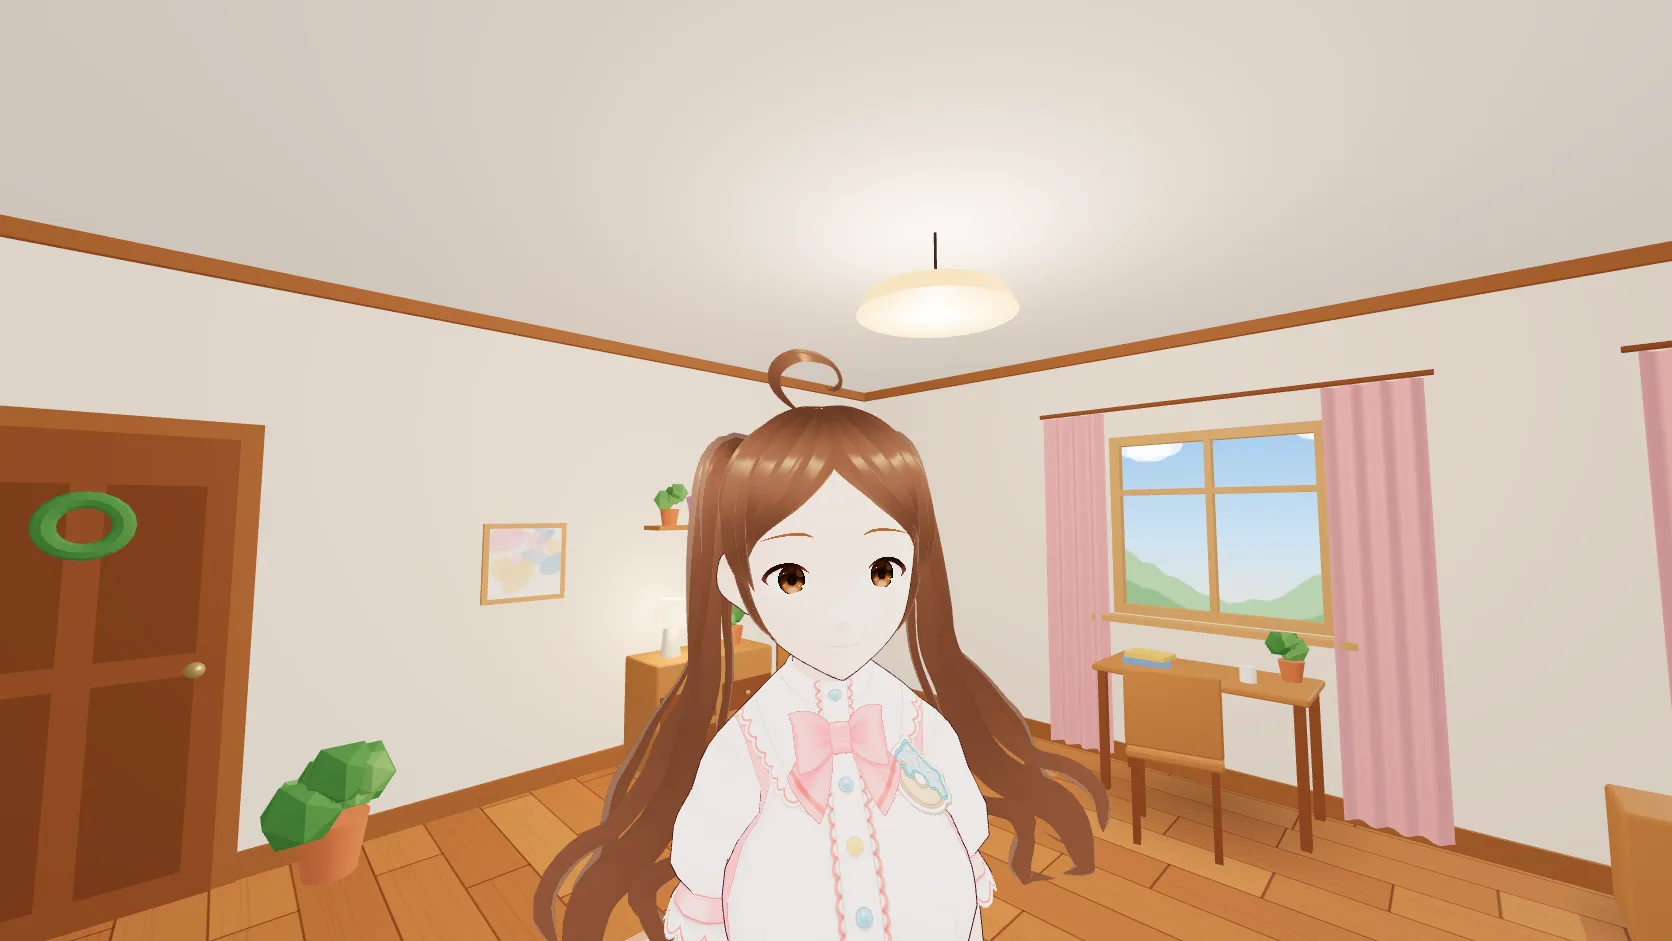
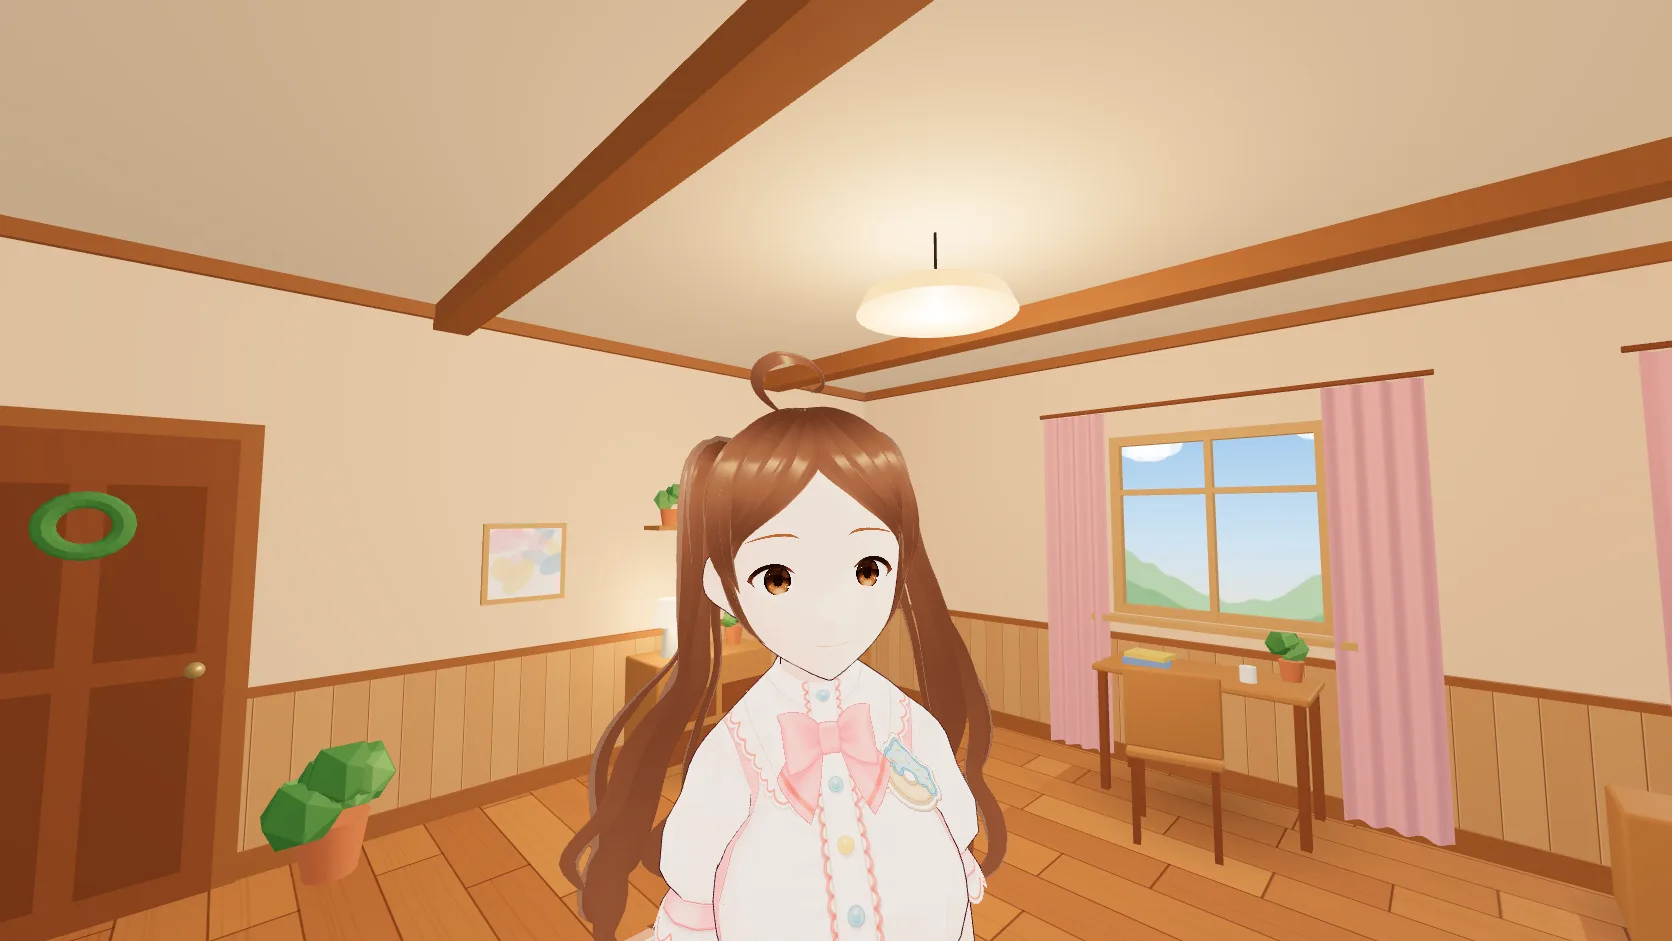
Give the room a warmer, cozier look
Apricot walls, a warm ceiling with exposed wooden beams, wooden
wainscoting with a rail, fairy lights above the bed and slightly dimmer
fill light so the lamps read as warm evening light. The loading poster
is regenerated from the new room.

diff --git a/src/components/CozyRoom.tsx b/src/components/CozyRoom.tsx
@@ -18,8 +18,8 @@ const CENTER_X = (MIN_X + MAX_X) / 2;
 const CENTER_Z = (MIN_Z + MAX_Z) / 2;
 
 const COLORS = {
-    wall: "#f2e2d2",
-    ceiling: "#f5e9de",
+    wall: "#eec4a0",
+    ceiling: "#e9c9a6",
     trim: "#9b6338",
     wood: "#b77a46",
     darkWood: "#8a5430",
@@ -136,6 +136,27 @@ function makeSkyTexture() {
     });
 }
 
+function makePanelTexture() {
+    const random = seededRandom(17);
+    const texture = canvasTexture(256, 128, (ctx) => {
+        const boards = 4;
+        const boardWidth = 256 / boards;
+        const tones = ["#c48d5e", "#bd8657", "#c99364", "#c08a5a"];
+        for (let i = 0; i < boards; i++) {
+            ctx.fillStyle = tones[Math.floor(random() * tones.length)];
+            ctx.fillRect(i * boardWidth, 0, boardWidth, 128);
+            ctx.fillStyle = "rgba(70, 35, 15, 0.45)";
+            ctx.fillRect(i * boardWidth, 0, 2, 128);
+            ctx.fillStyle = "rgba(255, 230, 200, 0.18)";
+            ctx.fillRect(i * boardWidth + 2, 0, 2, 128);
+        }
+    });
+    texture.wrapS = THREE.RepeatWrapping;
+    return texture;
+}
+
+let panelTexture: THREE.Texture | null = null;
+
 function makeRugTexture() {
     return canvasTexture(512, 512, (ctx) => {
         ctx.fillStyle = "#d99d86";
@@ -234,6 +255,7 @@ function Wall({
             <mesh geometry={geometry}>
                 <meshStandardMaterial color={COLORS.wall} roughness={0.95} />
             </mesh>
+            <Wainscot width={width} />
             {/* Baseboard and crown molding. */}
             <mesh position={[0, 0.06, 0.012]}>
                 <boxGeometry args={[width, 0.12, 0.024]} />
@@ -245,6 +267,63 @@ function Wall({
             </mesh>
             {holes.map((hole, index) => <Window key={index} {...hole} />)}
             {children}
+        </group>
+    );
+}
+
+const WAINSCOT_HEIGHT = 0.85;
+
+/** Wooden boards along the lower part of a wall, topped by a small rail. */
+function Wainscot({ width }: { width: number }) {
+    const texture = useMemo(() => {
+        panelTexture ??= makePanelTexture();
+        const repeated = panelTexture.clone();
+        repeated.repeat.set(width / 0.6, 1);
+        return repeated;
+    }, [width]);
+
+    return (
+        <>
+            <mesh position={[0, WAINSCOT_HEIGHT / 2, 0.008]}>
+                <planeGeometry args={[width, WAINSCOT_HEIGHT]} />
+                <meshStandardMaterial map={texture} roughness={0.75} />
+            </mesh>
+            <mesh position={[0, WAINSCOT_HEIGHT, 0.018]}>
+                <boxGeometry args={[width, 0.045, 0.036]} />
+                <meshStandardMaterial color={COLORS.trim} roughness={0.7} />
+            </mesh>
+        </>
+    );
+}
+
+/** A sagging string of warm bulbs between two points on a wall (local space). */
+function FairyLights({ from, to, sag = 0.25, count = 15 }: { from: [number, number]; to: [number, number]; sag?: number; count?: number }) {
+    const { wire, bulbs } = useMemo(() => {
+        const pointAt = (t: number) => new THREE.Vector3(
+            THREE.MathUtils.lerp(from[0], to[0], t),
+            THREE.MathUtils.lerp(from[1], to[1], t) - Math.sin(Math.PI * t) * sag,
+            0.04,
+        );
+        const curve = new THREE.CatmullRomCurve3(Array.from({ length: 12 }, (_, i) => pointAt(i / 11)));
+        return {
+            wire: new THREE.TubeGeometry(curve, 48, 0.004, 4),
+            bulbs: Array.from({ length: count }, (_, i) => pointAt((i + 0.5) / count)),
+        };
+        // eslint-disable-next-line react-hooks/exhaustive-deps
+    }, [from[0], from[1], to[0], to[1], sag, count]);
+
+    return (
+        <group>
+            <mesh geometry={wire}>
+                <meshStandardMaterial color="#4a3a2c" />
+            </mesh>
+            {bulbs.map((bulb, index) => (
+                <mesh key={index} position={[bulb.x, bulb.y - 0.025, bulb.z]}>
+                    <sphereGeometry args={[0.022, 10, 8]} />
+                    <meshBasicMaterial color={index % 3 === 1 ? "#ffc27a" : "#ffe0a6"} toneMapped={false} />
+                </mesh>
+            ))}
+            <pointLight position={[(from[0] + to[0]) / 2, (from[1] + to[1]) / 2 - sag, 0.3]} color="#ffb870" intensity={1.2} distance={3} decay={1.5} />
         </group>
     );
 }
@@ -628,7 +707,7 @@ function CeilingLamp({ position }: { position: [number, number, number] }) {
                 <cylinderGeometry args={[0.3, 0.34, 0.08, 32]} />
                 <meshStandardMaterial color="#ffd6a3" emissive="#ff9f4d" emissiveIntensity={1.6} roughness={0.6} />
             </mesh>
-            <pointLight position={[0, -0.45, 0]} color="#ffe2c4" intensity={4} distance={10} decay={1.2} />
+            <pointLight position={[0, -0.45, 0]} color="#ffd1a0" intensity={5} distance={10} decay={1.2} />
         </group>
     );
 }
@@ -690,6 +769,7 @@ export default function CozyRoom({ onReady }: { onReady: () => void }) {
             <Wall width={WIDTH} position={[CENTER_X, FLOOR_Y, MIN_Z]} rotationY={0} holes={northHoles}>
                 <Desk position={[-1.0, 0, 0.3]} />
                 <Bed position={[1.8, 0, 1.0]} />
+                <FairyLights from={[0.85, 2.5]} to={[2.75, 2.5]} />
                 <group position={[0.75, 0, 0.25]}>
                     <BlobShadow size={0.8} opacity={0.5} />
                     <RoundedBox args={[0.45, 0.5, 0.4]} radius={0.02} position={[0, 0.25, 0]}>
@@ -730,9 +810,16 @@ export default function CozyRoom({ onReady }: { onReady: () => void }) {
 
             <Rug position={[-0.5, FLOOR_Y + 0.008, -0.6]} />
             <CeilingLamp position={[-1.0, FLOOR_Y + HEIGHT, -1.6]} />
+            {/* Exposed ceiling beams for a cottage feel. */}
+            {[-2.8, -0.4, 1.9].map((z) => (
+                <mesh key={z} position={[CENTER_X, FLOOR_Y + HEIGHT - 0.07, z]}>
+                    <boxGeometry args={[WIDTH, 0.14, 0.18]} />
+                    <meshStandardMaterial color={COLORS.trim} roughness={0.8} />
+                </mesh>
+            ))}
 
-            <hemisphereLight args={["#fffaf3", "#d9bfa8", 0.8]} />
-            <directionalLight position={[2, 3, -5]} color="#fff6ea" intensity={1.1} />
+            <hemisphereLight args={["#ffe9d2", "#c99a74", 0.6]} />
+            <directionalLight position={[2, 3, -5]} color="#ffeedd" intensity={1.1} />
         </group>
     );
 }

diff --git a/index.html b/index.html
@@ -16,7 +16,7 @@
         inset: 0;
         z-index: 1;
         pointer-events: none;
-        background: #eadccd;
+        background: #e6c3a0;
         opacity: 1;
         transition: opacity 900ms ease, visibility 0s linear 900ms;
       }
